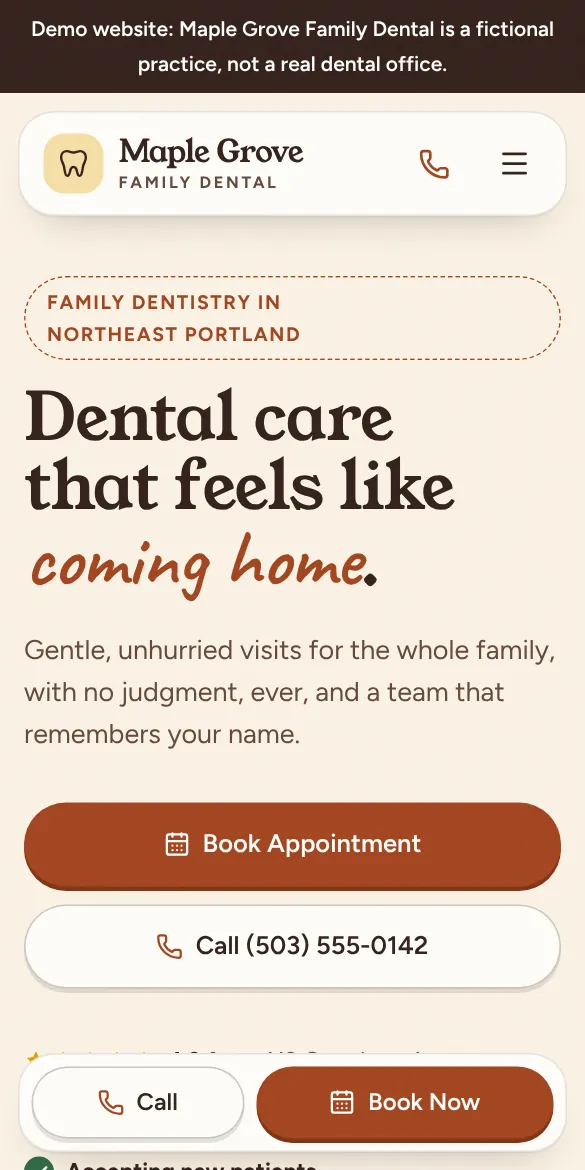
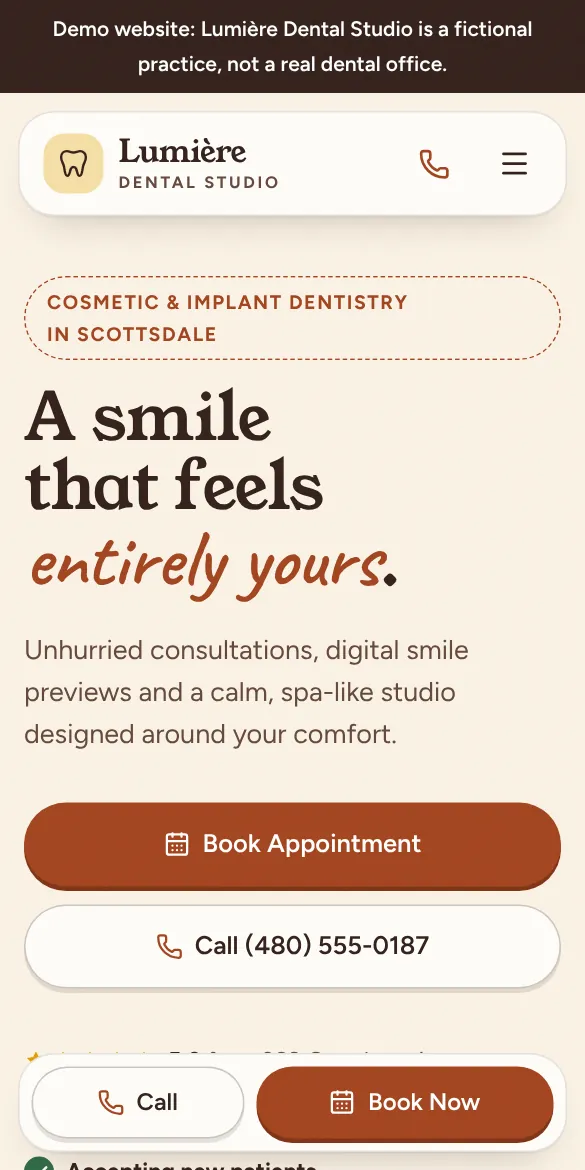
Business site: show Butter on Maple Grove first, Cinnamon on Lumière
Claude-Session: https://claude.ai/code/session_01Dz74CLANB8ZvbaNPtyytFn

diff --git a/business-site/public/index.html b/business-site/public/index.html
@@ -216,17 +216,17 @@
       <h2 id="examples-title">See the kind of site we build</h2>
       <p class="lead">Three looks, each shown on a fictional practice. Open one on your phone or computer.</p>
       <div class="examples">
-        <a class="example" href="https://demos.butterbite.workers.dev/lumiere/?design=butter" target="_blank" rel="noopener">
-          <div class="frame"><img src="/img/butter.webp" alt="Butter design, shown on Lumière Dental Studio, on a phone" width="585" height="1170" loading="lazy"></div>
-          <h3>Butter</h3><p>Soft and airy, with frosted glass. Shown on a cosmetic studio.</p>
+        <a class="example" href="https://demos.butterbite.workers.dev/maple-grove/?design=butter" target="_blank" rel="noopener">
+          <div class="frame"><img src="/img/butter.webp" alt="Butter design, shown on Maple Grove Family Dental, on a phone" width="585" height="1170" loading="lazy"></div>
+          <h3>Butter</h3><p>Soft and airy, with frosted glass. Shown on a family practice.</p>
         </a>
         <a class="example" href="https://demos.butterbite.workers.dev/little-sprouts/?design=honey" target="_blank" rel="noopener">
           <div class="frame"><img src="/img/honey.webp" alt="Honey design, shown on Little Sprouts Pediatric Dentistry, on a phone" width="585" height="1170" loading="lazy"></div>
           <h3>Honey</h3><p>Warm, friendly and playful. Shown on a kids’ practice.</p>
         </a>
-        <a class="example" href="https://demos.butterbite.workers.dev/maple-grove/?design=cinnamon" target="_blank" rel="noopener">
-          <div class="frame"><img src="/img/cinnamon.webp" alt="Cinnamon design, shown on Maple Grove Family Dental, on a phone" width="585" height="1170" loading="lazy"></div>
-          <h3>Cinnamon</h3><p>Personal and handmade, with a note from the dentist. Shown on a family practice.</p>
+        <a class="example" href="https://demos.butterbite.workers.dev/lumiere/?design=cinnamon" target="_blank" rel="noopener">
+          <div class="frame"><img src="/img/cinnamon.webp" alt="Cinnamon design, shown on Lumière Dental Studio, on a phone" width="585" height="1170" loading="lazy"></div>
+          <h3>Cinnamon</h3><p>Personal and handmade, with a note from the dentist. Shown on a cosmetic studio.</p>
         </a>
       </div>
     </div>
